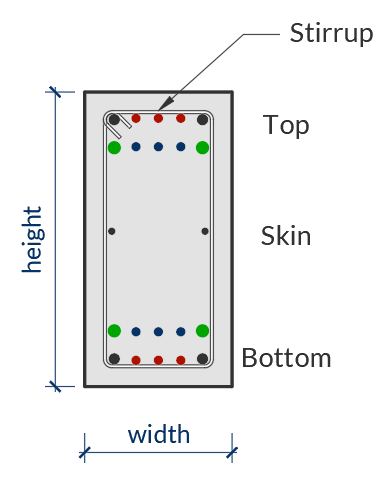
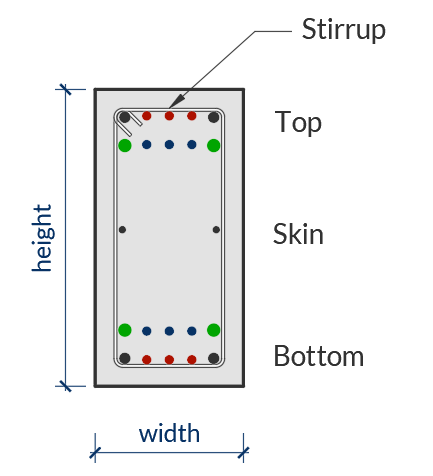
Update docs
Add coordinate system and local axes, improve beam docs.

Changed region(s): [[0.0615, 0.0294, 0.9538, 0.8235], [0.1846, 0.8824, 0.6154, 0.9706], [0.6462, 0.2353, 0.8, 0.2941]]

diff --git a/mento/beam.py b/mento/beam.py
@@ -988,7 +988,7 @@ class RectangularBeam(RectangularSection):
     def _calculate_total_shear_strength_aci(self) -> None:
         self._phi_V_n = self.phi_v * (self.V_c + self._A_v * self.f_yt * self._d_shear)
         V_d_max = min(self._phi_V_n, self._phi_V_max)
-        self._DCRv = abs((self._V_u.to('kN').magnitude / V_d_max.to('kN').magnitude))
+        self._DCRv = round(abs((self._V_u.to('kN').magnitude / V_d_max.to('kN').magnitude)),3)
 
     def _calculate_rebar_spacing_aci(self) -> None:
         section_rebar = Rebar(self)
@@ -1277,7 +1277,7 @@ class RectangularBeam(RectangularSection):
                 self._stirrup_s_max_l, self._stirrup_s_max_w =\
                       section_rebar.calculate_max_spacing_EN_1992_2004(self._alpha)
 
-            self._DCRv = abs((self._V_Ed_2.to('kN').magnitude / self._V_Rd.to('kN').magnitude))
+            self._DCRv = round(abs((self._V_Ed_2.to('kN').magnitude / self._V_Rd.to('kN').magnitude)),3)
             # Design results
             results = {
                 'Label': self.label, #Beam label
@@ -2206,7 +2206,7 @@ def flexure_design_test_calcpad_example() -> None:
     concrete = Concrete_ACI_318_19(name="fc 4000", f_c=4000*psi)  
     steelBar = SteelBar(name="fy 60000", f_y=60*ksi)  
     custom_settings = {'clear_cover': 1.5*inch} 
-    section = RectangularBeam(
+    beam = RectangularBeam(
         label="B-12x24",
         concrete=concrete,
         steel_bar=steelBar,
@@ -2218,13 +2218,16 @@ def flexure_design_test_calcpad_example() -> None:
     # section.set_longitudinal_rebar_bot(n1=2,d_b1=1.375*inch, n3=2,d_b3=1.25*inch)
     # section.set_longitudinal_rebar_top(n1=2,d_b1=0.75*inch)
 
-    f = Forces(label='Test_01', M_y=400*kip*ft)
-    # f2 = Forces(label='Test_01', M_y=0*kip*ft)
-    Node(section=section, forces=[f])
+    f = Forces(label='Test_01', V_z = 40*kip, M_y=400*kip*ft)
+    f2 = Forces(label='Test_01', V_z = 100*kip, M_y=-50*kip*ft)
+    Node(section=beam, forces=[f,f2])
 
     # print(section.check_flexure())
-    print(section.design_flexure())
-    print(section.flexure_design_results_bot)
+    shear_results = beam.design_shear()
+    print(shear_results)
+    flexure_results = beam.design_flexure()
+    print(flexure_results)
+    # print(section.flexure_design_results_bot)
     # section.flexure_results_detailed()
 
 

diff --git a/docs/source/user_guide/beams.rst b/docs/source/user_guide/beams.rst
@@ -1,7 +1,9 @@
 Beam
 ==========
 
-The `Beam` class in the `mento` package is designed to model and analyze rectangular reinforced concrete beams. It allows users to define the geometry, material properties, reinforcement, and applied forces, and then perform checks for shear and flexure. The results are presented in a user-friendly format, with color-coded Demand-Capacity Ratios (DCR) for quick assessment.
+The `Beam` class in the `mento` package is designed to model and analyze rectangular reinforced concrete beams.
+It allows users to define the geometry, material properties, reinforcement, and applied forces, and then perform checks for shear and flexure.
+The results are presented in a user-friendly format, with color-coded Demand-Capacity Ratios (DCR) for quick assessment.
 
 Key Concepts
 ------------
@@ -11,7 +13,7 @@ Key Concepts
 - **Reinforcement**: Longitudinal and transverse reinforcement can be defined using `set_longitudinal_rebar_bot`, `set_longitudinal_rebar_top`, and `set_transverse_rebar`.
 - **Forces**: Applied forces are assigned to the beam through a `Node` object.
 - **Checks**: The beam can be checked for shear and flexure using `check_shear()` and `check_flexure()`.
-- **Design**: The beam transverse and longitudinal rebar can be designed usign `design_shear()` and `design_flexure()`.
+- **Design**: The beam transverse and longitudinal rebar can be designed using `design_shear()` and `design_flexure()`.
 - **Results**: Results are displayed with color-coded DCR values for easy interpretation in a Jupyter Notebook. Also can be exported to Word.
 
 Usage
@@ -27,7 +29,7 @@ The `RectangularBeam` class is used for this purpose. If no custom settings are 
 
 .. image:: ../_static/beam/beam.png
    :alt: Beam cross section.
-   :width: 300px
+   :width: 250px
    :align: center
 
 .. code-block:: python
@@ -44,9 +46,9 @@ The `RectangularBeam` class is used for this purpose. If no custom settings are 
 2. Assigning Forces to the Beam
 *******************************
 
-Forces are applied to the beam through a `Node` object, wich joins the `Beam` and `Forces` object togehter.
+Forces are applied to the beam through a `Node` object, which joins the `Beam` and `Forces` object together.
 A `Node` can hold multiple forces, which are passed as a list. 
-Once created, the `Beam` object can retrieve the information from the list of `Forces` objects and perfom checks and design.
+Once created, the `Beam` object can retrieve the information from the list of `Forces` objects and perform checks and design.
 
 .. code-block:: python
 
@@ -70,18 +72,21 @@ You can define the longitudinal and transverse reinforcement for the beam using 
 
 .. note::
     Consider that:
+
     - If no transverse reinforcement is defined, it is assumed that plain concrete will resist shear forces. 
-    - If no longitudinal reinforcement is defined, a minimum of 2Ø8 will be considered
-    for metric system or 2#3 for imperial system of units. Mento won't check a beam without longitudinal rebar.
+    - If no longitudinal reinforcement is defined, a minimum of 2Ø8 will be considered for metric system or 2#3 for imperial system of units. Mento won't check a beam without longitudinal rebar.
     - Skin rebar is not considered for the check or design of the beam.
 
 **Transverse reinforcement**
-This is set indicating amount of stirrups, the diameter of the sitrrups and the spacing of the legs along the beamm.
+This is set indicating amount of stirrups, the diameter of the stirrups and the spacing of the legs along the beam.
 
 **Longitudinal reinforcement**
 This is set indicating rebar for two layers, differentiating between border bars and inner bars. 
 Each group of bars, for each layer has a unique number id. Bars can be defined both for top and bottom of the beam,
 which will be considered for negative and positive bending moments respectively.
+
+In case a flexure analysis requires compression reinforcement additional to the tension reinforcement, the opposite reinforcement will be considered.
+For example, if a positive moment is so large that the section must be reinforced at top&bottom, the top rebar will also be considered in the beam capacity for flexure.
 
 .. image:: ../_static/beam/beam_long_rebar.png
    :alt: Beam longitudinal rebar layout.
@@ -103,7 +108,7 @@ which will be considered for negative and positive bending moments respectively.
 ********************
 
 Once the beam is defined and forces are assigned, you can perform checks for shear and flexure.
-*Mento* will apply correpsonding design code formulas depending on the type of `Concrete` object 
+*Mento* will apply corresponding design code formulas depending on the type of `Concrete` object 
 created for all the forces assigned and store the limiting case for shear and top and bottom bending moment. 
 
 - **Shear Check**: Use `check_shear`.
@@ -115,7 +120,37 @@ created for all the forces assigned and store the limiting case for shear and to
     beam.check_shear()
     beam.check_flexure()
 
-5. Jupyter Notebook Results
+5. Design the section
+********************
+
+If you don't assign transverse or longitudinal rebar, you can as *Mento* to design for shear and flexure.
+*Mento* will apply corresponding design code formulas depending on the type of `Concrete` object 
+created for all the forces assigned and store the limiting case for shear and top and bottom bending moment. 
+
+After performing the numerical design, *Mento* will assign the optimal rebar combination of stirrups and longitudinal reinforcement,
+considering all the longitudinal positions in the beam.
+
+- **Shear Design**: Use `design_shear`.
+- **Flexure Design**: Use `design_flexure`.
+
+.. code-block:: python
+
+    # Perform shear and flexure checks
+    beam.design_shear()
+    beam.design_flexure()
+
+*Mento* will also create a Pandas DataFrame with all the check results for each Load Case in the Force object assigned to the Node, both for shear and flexure analysis.
+You can print those results from the previous method.
+
+.. code-block:: python
+
+    # Perform shear and flexure checks
+    shear_results = beam.design_shear()
+    print(shear_results)
+    flexure_results = beam.design_flexure()
+    print(flexure_results)
+
+6. Jupyter Notebook Results
 ******************
 
 After performing the checks, you can view the results in a formatted way in a Notebook.
@@ -202,7 +237,7 @@ The `beam.data` command provides the beam's geometry and material properties. He
 - **Check DCR Values**: A DCR less than 1.0 indicates that the beam is safe under the applied loads.
 - **Review Warnings**: If the output includes warnings, review the design to ensure compliance with code requirements. You can check detailed results for more information.
 
-6. Detailed Results
+7. Detailed Results
 *******************
 
 For more detailed results, you can use the following methods:

diff --git a/docs/source/user_guide/local_axes.rst b/docs/source/user_guide/local_axes.rst
@@ -1,0 +1,27 @@
+Coordinate System
+===================================
+
+The local coordinate system of a structural member is a dextrorotary Cartesian system with the following orientation of axes:
+
+- The local **x-axis** is always the longitudinal axis of the element, defined from the **beginning node (A)** to the **end node (B)**. The origin of the system is positioned at the beginning node of the member.
+
+- The local **y-axis** and **z-axis** lie in the plane of the member's cross-section and are arranged according to dextrorotary rotation. By default:
+
+  - The **y-axis** represents the axis of the greater moment of inertia of the member.
+  - The **z-axis** represents the axis of the lesser moment of inertia of the member.
+
+.. figure:: ../_static/local_axes/element_axes.jpeg
+   :alt: Element local axes.
+   :align: center
+   :width: 70%
+
+Sectional Analysis
+------------------
+
+For sectional analysis, the local **y-axis** and **z-axis** are critical for understanding the orientation of the member's cross-section.
+Below is an illustration of the cross-section with the local **y-axis** and **z-axis**:
+
+.. figure:: ../_static/local_axes/section_axes.png
+   :alt: Cross-section of a member with local y and z axes
+   :align: center
+   :width: 25%

diff --git a/docs/source/user_guide/units.rst b/docs/source/user_guide/units.rst
@@ -1,4 +1,4 @@
-Units in `mento` Package
+Units
 =========================
 
 The `mento` package is designed to work with both Metric (SI) and

diff --git a/docs/source/user_guide/index.rst b/docs/source/user_guide/index.rst
@@ -8,6 +8,7 @@ User Guide
    :maxdepth: 2
 
    units
+   local_axes
    materials
    forces
    settings
